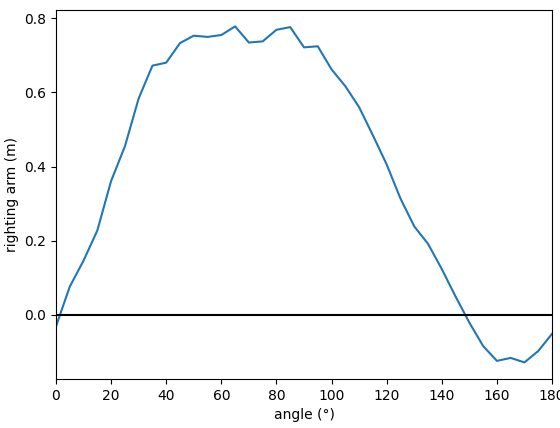
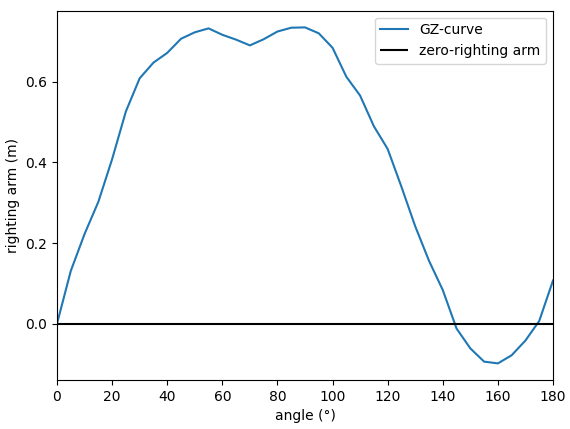
updated GZ curve plotting and fishing boat example

diff --git a/src/gzpy/core/visualize.py b/src/gzpy/core/visualize.py
@@ -32,14 +32,16 @@ def plot_gz_curve(angles: NDArray[np.float32], gz: NDArray[np.float32]) -> None:
     plt.figure()
 
     # plot the GZ-curve
-    plt.plot(angles, gz)
+    plt.plot(angles, gz, label='GZ-curve')
     # set x-limits based on the angles
     plt.xlim(angles.min(), angles.max())
     # plot a horizontal line at zero-righting arm (m)
-    plt.hlines(0, xmin=angles.min(), xmax=angles.max(), colors='k')
+    plt.hlines(0, xmin=angles.min(), xmax=angles.max(), colors='k', label='zero-righting arm')
     # label the axes
     plt.xlabel('angle (\N{DEGREE SIGN})')
     plt.ylabel('righting arm (m)')
+    # plot a legend
+    plt.legend(draggable=True)
 
     # show the plot to the user
     plt.show()
